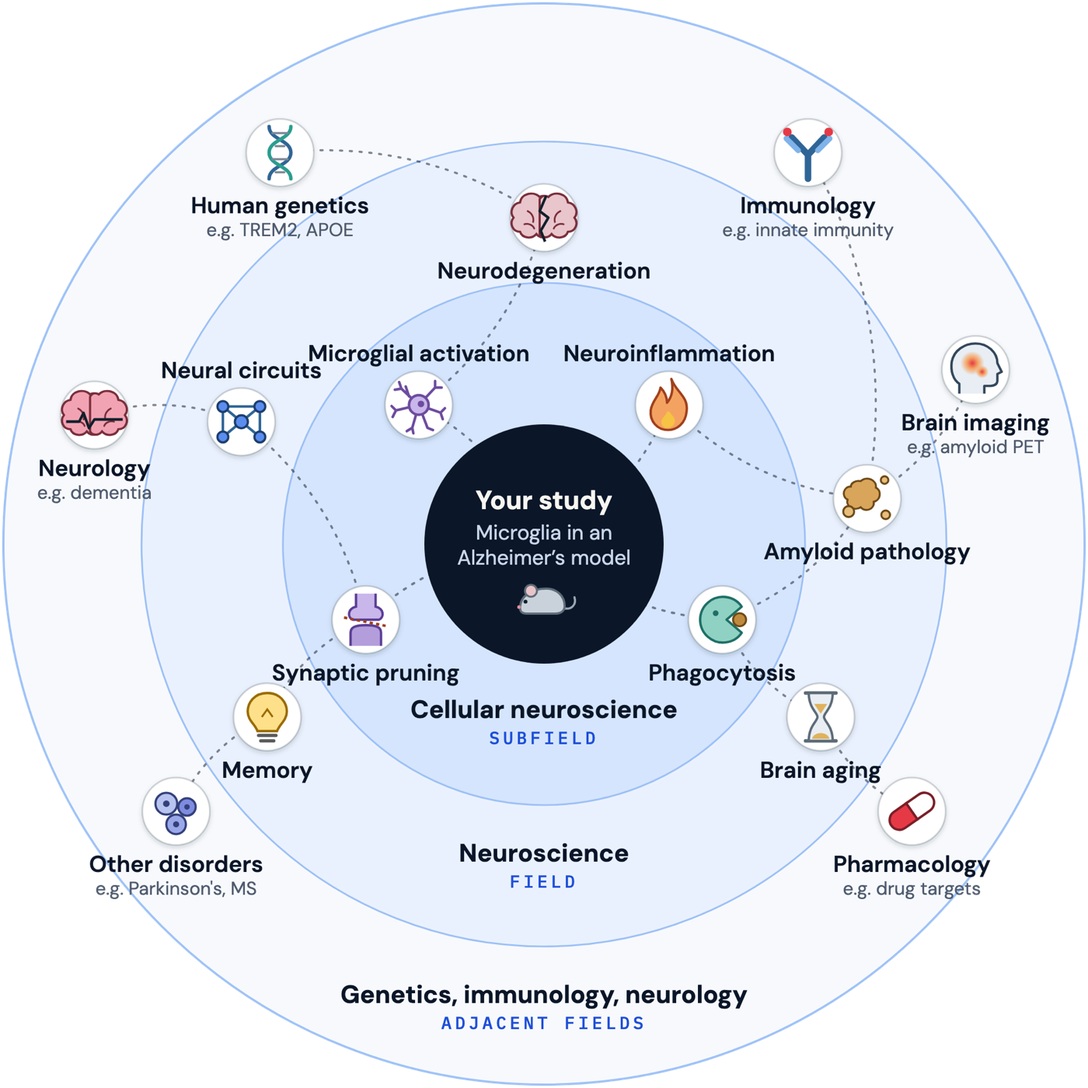
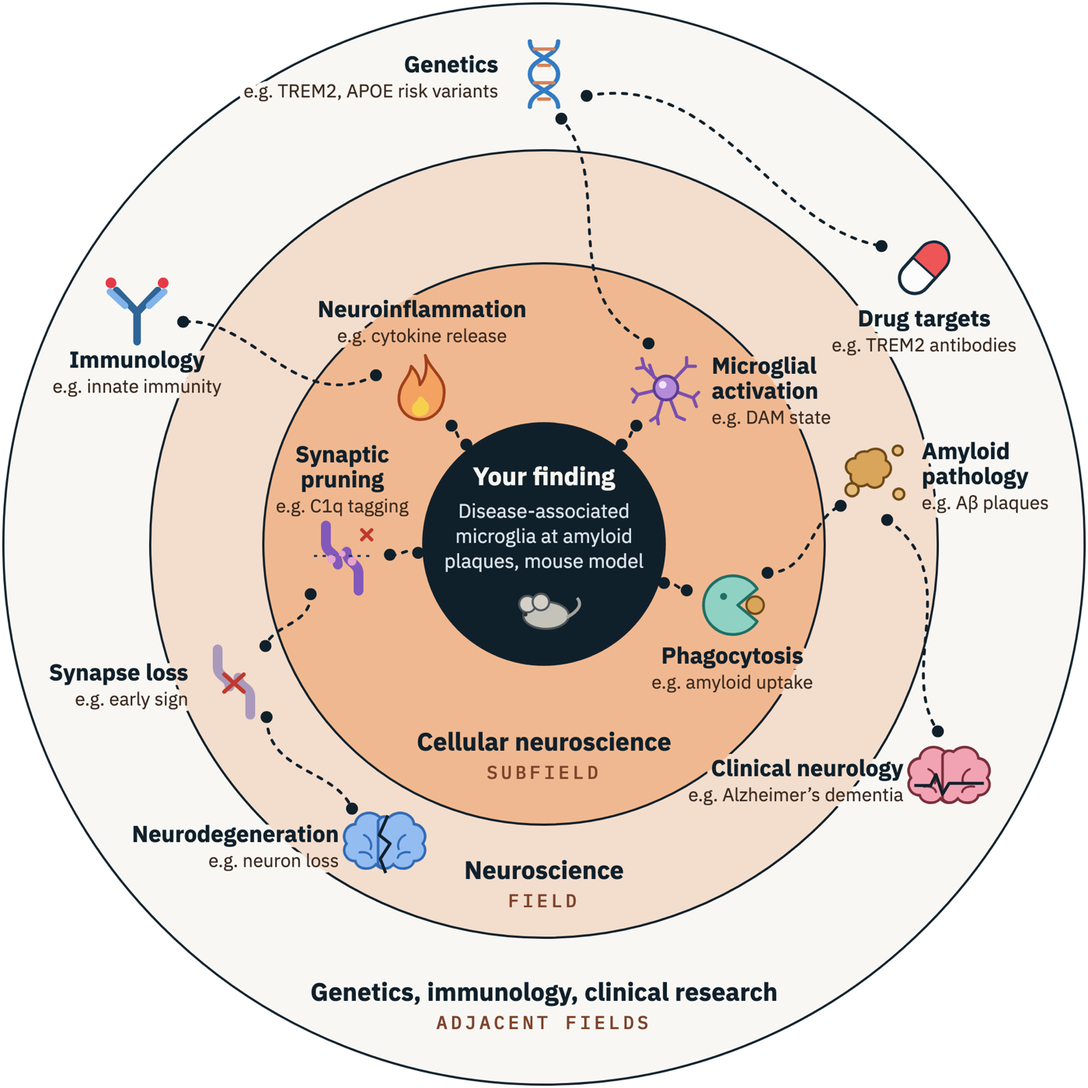
home: 'The missing link' as an orange section — the heading and text on the left, the rings figure on the right (disease-associated microglia in Alzheimer's, connected through cellular neuroscience, neuroscience and adjacent fields), no cards; figure source and SVG in docs/figures

diff --git a/docs/figures/reach-rings.html b/docs/figures/reach-rings.html
@@ -1,148 +1,119 @@
 <!doctype html>
 <html><head><meta charset="utf-8">
-<link rel="stylesheet" href="https://fonts.googleapis.com/css2?family=IBM+Plex+Sans:wght@400;600;700&family=IBM+Plex+Mono:wght@500&family=DM+Sans:wght@400;600;700&display=swap">
-<style>
-html,body{margin:0;background:transparent}
-svg{display:block}
+<link rel="stylesheet" href="https://fonts.googleapis.com/css2?family=IBM+Plex+Sans:wght@400;600;700&family=IBM+Plex+Mono:wght@500&display=swap">
+<style>html,body{margin:0;background:transparent}svg{display:block}
+.lbl{font:700 21px 'IBM Plex Sans',sans-serif;fill:#10202B}
+.ex{font:400 17px 'IBM Plex Sans',sans-serif;fill:#3A2A20}
+.ring{font:700 23px 'IBM Plex Sans',sans-serif;fill:#10202B}
+.role{font:500 17px 'IBM Plex Mono',monospace;letter-spacing:3px;fill:#7D432B}
+.core1{font:700 23px 'IBM Plex Sans',sans-serif;fill:#F6F5F0}
+.core2{font:400 18px 'IBM Plex Sans',sans-serif;fill:#D9E2E8}
 </style></head>
 <body>
 <svg id="fig" xmlns="http://www.w3.org/2000/svg" width="1000" height="1000" viewBox="0 0 1000 1000"></svg>
 <script>
-// Palette: #slide (warm, the deck) or #web (BrainKB site blues).
-const WEB = location.hash === "#web";
-const T = WEB ? {
-  font: "'DM Sans'", mono: "'IBM Plex Mono'", ink: "#0b1628", muted: "#4f5b6e", outer: "#f7f9fd", mid: "#eaf1fe", inner: "#d5e5fd",
-  stroke: "#9cc0f5", core: "#0b1628", coreSub: "#c9d6ea", role: "#1d4ed8",
-} : {
-  font: "'IBM Plex Sans'", mono: "'IBM Plex Mono'", ink: "#10202B", muted: "#4A5563", outer: "#F6F5F0", mid: "#F3DCC9", inner: "#EDB38D",
-  stroke: "#10202B", core: "#10202B", coreSub: "#D9E2E8", role: "#8A3F17",
-};
-document.head.insertAdjacentHTML("beforeend", `<style>
-.lbl{font:600 21px ${T.font},sans-serif;fill:${T.ink}}
-.ex{font:400 17px ${T.font},sans-serif;fill:${T.muted}}
-.ring{font:700 23px ${T.font},sans-serif;fill:${T.ink}}
-.role{font:500 16px ${T.mono},monospace;letter-spacing:3px;fill:${T.role}}
-.core1{font:700 24px ${T.font},sans-serif;fill:#F6F5F0}
-.core2{font:400 19px ${T.font},sans-serif;fill:${T.coreSub}}
-</style>`);
+// BrainKB "The missing link" figure: one finding (disease-associated microglia at
+// amyloid plaques, Keren-Shaul et al., Cell 2017) and the knowledge it connects to.
+// Rings show reach, not a hierarchy. Links are illustrative, each one a relationship
+// reported in published work. Rendered to PNG for the deck and the BrainKB home page.
+const C = 500, NS = "http://www.w3.org/2000/svg", svg = document.getElementById("fig");
+const el = (tag, a, p = svg) => { const e = document.createElementNS(NS, tag); for (const k in a) e.setAttribute(k, a[k]); p.appendChild(e); return e; };
+const g = (a, p = svg) => el("g", a, p);
 
-const C = 500, NS = "http://www.w3.org/2000/svg";
-const svg = document.getElementById("fig");
-const el = (tag, attrs, parent = svg) => { const e = document.createElementNS(NS, tag); for (const k in attrs) e.setAttribute(k, attrs[k]); parent.appendChild(e); return e; };
-const g = (attrs, parent = svg) => el("g", attrs, parent);
+el("circle", { cx: C, cy: C, r: 497, fill: "#F8F7F3" });
+el("circle", { cx: C, cy: C, r: 362, fill: "#F3DDCD" });
+el("circle", { cx: C, cy: C, r: 258, fill: "#F0B890" });
+// ring outlines are masked: each label cuts a gap in the line behind it
+const mask = el("mask", { id: "cut", maskUnits: "userSpaceOnUse", x: 0, y: 0, width: 1000, height: 1000 }, el("defs", {}));
+el("rect", { x: 0, y: 0, width: 1000, height: 1000, fill: "#fff" }, mask);
+const outlines = g({ fill: "none", stroke: "#10202B", "stroke-width": 2, mask: "url(#cut)" });
+for (const r of [497, 362, 258]) el("circle", { cx: C, cy: C, r }, outlines);
 
-const defs = el("defs", {});
-defs.innerHTML = `
-<radialGradient id="pet" cx="50%" cy="50%" r="50%"><stop offset="0" stop-color="#E63946"/><stop offset=".45" stop-color="#F4A261"/><stop offset="1" stop-color="#F4A261" stop-opacity="0"/></radialGradient>
-<filter id="sh" x="-30%" y="-30%" width="160%" height="160%"><feDropShadow dx="0" dy="2" stdDeviation="2.5" flood-color="#10202B" flood-opacity=".18"/></filter>`;
-
-// rings
-el("circle", { cx: C, cy: C, r: 497, fill: T.outer, stroke: T.stroke, "stroke-width": WEB ? 2 : 2.5 });
-el("circle", { cx: C, cy: C, r: 370, fill: T.mid, stroke: T.stroke, "stroke-width": 1.6 });
-el("circle", { cx: C, cy: C, r: 240, fill: T.inner, stroke: T.stroke, "stroke-width": 1.6 });
-
-// icons, each drawn in a ~48px box around 0,0
-const BRAIN = (fill = "#F2A3B3") => `
-  <path d="M-4 -19c-6-6-17-3-18 5-7 1-10 9-6 14-4 5-1 13 6 13 2 6 11 7 15 2 3 4 9 4 11 0V-17c-2-3-5-4-8-2z" fill="${fill}" stroke="#7A2E3B" stroke-width="2"/>
-  <path d="M4 -19c6-6 17-3 18 5 7 1 10 9 6 14 4 5 1 13-6 13-2 6-11 7-15 2-3 4-9 4-11 0V-17c2-3 5-4 8-2z" fill="${fill}" stroke="#7A2E3B" stroke-width="2"/>
-  <path d="M-15 -6c4 2 6 6 5 10M-18 6c4-1 8 1 9 4M15 -6c-4 2-6 6-5 10M18 6c-4-1-8 1-9 4" fill="none" stroke="#7A2E3B" stroke-width="1.6" stroke-linecap="round"/>`;
+// icons, ~60px, drawn around 0,0
+const BRAIN = (f, s) => `<path d="M-4 -24c-8-8-22-4-23 6-9 1-13 11-8 18-5 6-1 16 8 16 2 8 14 9 19 3 4 5 11 5 14 0V-21c-3-4-6-5-10-3z" fill="${f}" stroke="${s}" stroke-width="2.4"/><path d="M4 -24c8-8 22-4 23 6 9 1 13 11 8 18 5 6 1 16-8 16-2 8-14 9-19 3-4 5-11 5-14 0V-21c3-4 6-5 10-3z" fill="${f}" stroke="${s}" stroke-width="2.4"/><path d="M-19 -8c5 2 8 8 6 13M-23 8c5-1 10 1 11 5M19 -8c-5 2-8 8-6 13M23 8c-5-1-10 1-11 5" fill="none" stroke="${s}" stroke-width="2" stroke-linecap="round"/>`;
 const ICON = {
-  glia: `<g stroke="#6D4C9F" stroke-width="2.4" stroke-linecap="round" fill="none">
-      <path d="M0 0L-16 -15l-6 1M-16 -15l-2 -6M-9 -8l-3 -9M0 0L15 -16l6 0M15 -16l0 -6M0 0L-21 5l-4 -4M-21 5l-3 6M0 0L20 7l4 -4M20 7l2 6M0 0L-6 21l-5 3M-6 21l1 5M0 0L8 21l5 2"/></g>
-    <circle r="9" fill="#C9B6EA" stroke="#6D4C9F" stroke-width="2.4"/><circle cx="2" cy="-1" r="3" fill="#6D4C9F"/>`,
-  flame: `<path d="M2 -24C6 -12 18 -8 16 6C15 17 7 23 -1 23C-11 23 -18 15 -17 5C-16 -4 -9 -8 -8 -16C-3 -11 -2 -6 -2 -2C3 -8 4 -15 2 -24Z" fill="#F4A261" stroke="#A0401C" stroke-width="2.2" stroke-linejoin="round"/>
-    <path d="M0 6C3 10 6 12 5 16C4 20 0 21 -2 21C-6 21 -8 17 -7 14C-6 11 -3 10 -2 6Z" fill="#F6C344"/>`,
-  synapse: `<path d="M-9 -24V-12C-17 -10 -17 -2 -12 0H12C17 -2 17 -10 9 -12V-24" fill="#C9B6EA" stroke="#5B3E96" stroke-width="2.2"/>
-    <path d="M-14 24V12C-14 7 -10 5 0 5S14 7 14 12V24" fill="#B39DDB" stroke="#5B3E96" stroke-width="2.2"/>
-    <path d="M-20 -2L20 6" stroke="#A0401C" stroke-width="2.4" stroke-dasharray="3 3"/>`,
-  engulf: `<path d="M18 -12A21 21 0 1 0 18 12L4 0Z" fill="#8FD1C3" stroke="#1F6F66" stroke-width="2.2" stroke-linejoin="round"/>
-    <circle cx="-6" cy="-6" r="2.6" fill="#1F6F66"/><circle cx="16" cy="0" r="6" fill="#C08A3E" stroke="#6E4A17" stroke-width="1.8"/>`,
-  network: `<g stroke="#2F6596" stroke-width="2.4"><path d="M0 0L-17 -14M0 0L17 -14M0 0L-17 14M0 0L17 14M-17 -14L17 -14M-17 14L-17 -14M17 14L17 -14"/></g>
-    <g fill="#5B8DEF" stroke="#1D3E6E" stroke-width="2"><circle r="6"/><circle cx="-17" cy="-14" r="5"/><circle cx="17" cy="-14" r="5"/><circle cx="-17" cy="14" r="5"/><circle cx="17" cy="14" r="5"/></g>`,
-  degen: `${BRAIN("#E9C5CC")}<path d="M2 -20L-4 -6L4 0L-3 12L1 22" fill="none" stroke="#10202B" stroke-width="2.4" stroke-linejoin="round"/>`,
-  plaque: `<g stroke="#6E4A17" stroke-width="1.8"><path d="M-6 -16c6-5 15-1 14 6 6 3 4 12-2 13 1 7-8 10-12 5-6 4-14-1-12-7-6-3-4-12 3-12 0-3 4-6 9-5z" fill="#D9A55A"/>
-    <circle cx="-17" cy="12" r="5" fill="#E6BD7C"/><circle cx="17" cy="15" r="4" fill="#E6BD7C"/><circle cx="16" cy="-17" r="3.5" fill="#E6BD7C"/></g>`,
-  hourglass: `<path d="M-14 -22H14M-14 22H14" stroke="#5E6B78" stroke-width="3.2" stroke-linecap="round"/>
-    <path d="M-11 -22C-11 -8 -3 -4 -3 0S-11 8 -11 22H11C11 8 3 4 3 0S11 -8 11 -22Z" fill="#E8EEF3" stroke="#5E6B78" stroke-width="2.2"/>
-    <path d="M-6 -12H6L0 -3Z" fill="#E0B25C"/><path d="M-8 20C-6 13 6 13 8 20Z" fill="#E0B25C"/>`,
-  bulb: `<path d="M0 -22C-12 -22 -18 -13 -18 -5C-18 3 -11 7 -9 13H9C11 7 18 3 18 -5C18 -13 12 -22 0 -22Z" fill="#FFE08A" stroke="#9A6B00" stroke-width="2.2"/>
-    <path d="M-8 17H8M-6 22H6" stroke="#5C5C5C" stroke-width="3" stroke-linecap="round"/><path d="M-5 0L0 -7L5 0" fill="none" stroke="#9A6B00" stroke-width="1.8"/>`,
-  dna: `<path d="M-10 -24C-10 -12 10 -12 10 0S-10 12 -10 24" fill="none" stroke="#2F6596" stroke-width="3.2" stroke-linecap="round"/>
-    <path d="M10 -24C10 -12 -10 -12 -10 0S10 12 10 24" fill="none" stroke="#2A9D8F" stroke-width="3.2" stroke-linecap="round"/>
-    <path d="M-7 -18H7M-4 -6H4M-7 6H7M-4 18H4" stroke="#7A8794" stroke-width="2" stroke-linecap="round"/>`,
-  antibody: `<g stroke-linecap="round" stroke-linejoin="round"><path d="M0 24V2L-15 -14M0 2L15 -14" fill="none" stroke="#2F6596" stroke-width="6"/>
-    <path d="M-9 -2L-20 -13M9 -2L20 -13" fill="none" stroke="#7FB3EA" stroke-width="5"/></g>
-    <circle cx="-19" cy="-19" r="4" fill="#E63946"/><circle cx="19" cy="-19" r="4" fill="#E63946"/>`,
-  scan: `<path d="M-15 22V13C-21 9 -23 1 -22 -7C-20 -18 -10 -24 0 -24C11 -24 20 -16 20 -6L24 2L20 4V10C20 14 16 15 12 15H8V22" fill="#E8EEF3" stroke="#33475B" stroke-width="2.2" stroke-linejoin="round"/>
-    <circle cx="-3" cy="-6" r="11" fill="url(#pet)"/><circle cx="6" cy="2" r="6" fill="url(#pet)"/>`,
-  neuro: `${BRAIN()}<path d="M-26 6H-14L-10 -2L-5 12L0 4H26" fill="none" stroke="#10202B" stroke-width="2.4" stroke-linejoin="round"/>`,
-  pill: `<g transform="rotate(-35)"><path d="M0 -9H-14A9 9 0 0 0 -14 9H0Z" fill="#E63946" stroke="#7A1F27" stroke-width="2.2"/>
-    <path d="M0 -9H14A9 9 0 0 1 14 9H0Z" fill="#FFFFFF" stroke="#7A1F27" stroke-width="2.2"/></g>`,
-  cells: `<g stroke="#33407A" stroke-width="2"><circle cx="-9" cy="-7" r="10" fill="#B8C3F0"/><circle cx="10" cy="-4" r="8" fill="#7E8CE0"/><circle cx="0" cy="12" r="9" fill="#9AA8EA"/></g>
-    <g fill="#33407A"><circle cx="-9" cy="-7" r="3"/><circle cx="10" cy="-4" r="2.5"/><circle cx="0" cy="12" r="2.8"/></g>`,
-  mouse: `<path d="M18 6C26 8 30 2 28 -4" fill="none" stroke="#9AA6B2" stroke-width="2" stroke-linecap="round"/>
-    <path d="M-22 6C-22 -6 -10 -12 2 -12C12 -12 19 -5 19 4C19 9 15 11 10 11H-16C-20 11 -22 9 -22 6Z" fill="#C9D2DA" stroke="#5E6B78" stroke-width="2"/>
-    <circle cx="-12" cy="-10" r="5.5" fill="#E8C4C9" stroke="#5E6B78" stroke-width="1.8"/>
-    <circle cx="-17" cy="0" r="1.8" fill="#10202B"/><circle cx="-23" cy="5" r="1.6" fill="#E58FA0"/>`,
+  infl: `<path d="M3 -30C8 -15 23 -10 20 8C19 21 9 29 -1 29C-14 29 -23 19 -21 6C-20 -5 -11 -10 -10 -20C-4 -14 -2 -8 -2 -3C4 -10 5 -19 3 -30Z" fill="#F4A261" stroke="#A0401C" stroke-width="2.6" stroke-linejoin="round"/><path d="M0 8C4 13 8 15 6 20C5 25 0 26 -3 26C-8 26 -10 21 -9 17C-8 14 -4 12 -3 8Z" fill="#F6D04D"/>`,
+  act: `<g stroke="#7A4FB0" stroke-width="3" stroke-linecap="round" fill="none"><path d="M0 0L-20 -19l-7 1M-20 -19l-2 -8M-11 -10l-4 -11M0 0L19 -20l8 0M19 -20l0 -8M0 0L-26 6l-5 -5M-26 6l-4 7M0 0L25 9l5 -5M25 9l3 8M0 0L-8 26l-6 4M-8 26l1 7M0 0L10 26l7 3"/></g><circle r="11" fill="#B58BD8" stroke="#5B3E96" stroke-width="2.6"/><circle cx="-3" cy="-3" r="3.5" fill="#F1E2FF"/>`,
+  phago: `<path d="M23 -15A27 27 0 1 0 23 15L5 0Z" fill="#8FD1C3" stroke="#1F6F66" stroke-width="2.6" stroke-linejoin="round"/><circle cx="-8" cy="-8" r="3.2" fill="#1F6F66"/><circle cx="21" cy="0" r="8" fill="#D9A55A" stroke="#6E4A17" stroke-width="2"/>`,
+  prune: `<path d="M-15 -30V-14C-15 -4 -4 -5 -4 6M15 30V14C15 4 4 5 4 -6" stroke="#8258BA" stroke-width="9" fill="none" stroke-linecap="round"/><path d="M-26 -2H26" stroke="#253A62" stroke-width="2" stroke-dasharray="3 5"/><g fill="#E7A3CE"><circle cx="-10" cy="1" r="4"/><circle cx="0" cy="-4" r="3"/><circle cx="9" cy="3" r="4"/></g><path d="M18 -26l9 9M27 -26l-9 9" stroke="#C0392B" stroke-width="3.2" stroke-linecap="round"/>`,
+  plaque: `<g stroke="#6E4A17" stroke-width="2.2"><path d="M-8 -20c8-6 19-1 17 8 8 4 5 15-2 16 1 9-10 12-15 6-8 5-17-1-15-9-8-4-5-15 4-15 0-4 5-7 11-6z" fill="#D9A55A"/><circle cx="-22" cy="15" r="6" fill="#E6BD7C"/><circle cx="21" cy="19" r="5" fill="#E6BD7C"/><circle cx="20" cy="-21" r="4.5" fill="#E6BD7C"/></g>`,
+  synloss: `<path d="M-15 -30V-14C-15 -4 -4 -5 -4 4M15 30V14C15 4 4 5 4 -4" stroke="#9D8DB8" stroke-width="9" fill="none" stroke-linecap="round" opacity=".85"/><path d="M-9 -7L9 9M9 -7L-9 9" stroke="#C0392B" stroke-width="3.6" stroke-linecap="round"/>`,
+  degen: `${BRAIN("#93BCF1", "#316BB6")}<path d="M3 -26L-5 -8L5 0L-4 14L1 27" fill="none" stroke="#10202B" stroke-width="2.8" stroke-linejoin="round"/>`,
+  gen: `<path d="M-13 -30C-13 -15 13 -15 13 0S-13 15 -13 30" fill="none" stroke="#327CC5" stroke-width="4" stroke-linecap="round"/><path d="M13 -30C13 -15 -13 -15 -13 0S13 15 13 30" fill="none" stroke="#327CC5" stroke-width="4" stroke-linecap="round"/><path d="M-9 -23H9M-5 -8H5M-9 8H9M-5 23H5" stroke="#D68359" stroke-width="3" stroke-linecap="round"/>`,
+  imm: `<g stroke-linecap="round"><path d="M0 30V3L-19 -17M0 3L19 -17" fill="none" stroke="#2F6596" stroke-width="7"/><path d="M-11 -3L-25 -16M11 -3L25 -16" fill="none" stroke="#7FB3EA" stroke-width="6"/></g><circle cx="-24" cy="-24" r="5" fill="#E63946"/><circle cx="24" cy="-24" r="5" fill="#E63946"/>`,
+  drug: `<g transform="rotate(42)"><rect x="-14" y="-27" width="28" height="54" rx="14" fill="#FCFCFC" stroke="#142B3C" stroke-width="3"/><path d="M-14 0V-13a14 14 0 0 1 28 0V0Z" fill="#EE5557" stroke="#142B3C" stroke-width="2"/></g>`,
+  clin: `${BRAIN("#F2A3B3", "#7A2E3B")}<path d="M-32 7H-17L-12 -3L-6 15L0 5H32" fill="none" stroke="#10202B" stroke-width="2.8" stroke-linejoin="round"/>`,
+  mouse: `<ellipse cx="2" cy="6" rx="22" ry="13" fill="#C4C2B9" stroke="#4D565A" stroke-width="2"/><circle cx="-16" cy="-5" r="8" fill="#D4D0C8" stroke="#4D565A" stroke-width="2"/><circle cx="-3" cy="-7" r="8" fill="#D4D0C8" stroke="#4D565A" stroke-width="2"/><circle cx="-18" cy="5" r="2" fill="#333"/><path d="M22 8q18-10 10-19" fill="none" stroke="#A4A29C" stroke-width="3"/>`,
 };
 
-// a: degrees (0 = right, -90 = top); r: distance from centre; lab: label above or below the icon
 const pt = (a, r) => [C + r * Math.cos(a * Math.PI / 180), C + r * Math.sin(a * Math.PI / 180)];
+// lab: where the text goes relative to the icon
 const NODES = {
   // subfield: cellular neuroscience
-  act:   { a: -132, r: 172, icon: "glia", t: ["Microglial activation"], lab: "up" },
-  infl:  { a: -48,  r: 172, icon: "flame", t: ["Neuroinflammation"], lab: "up" },
-  prune: { a: 157,  r: 178, icon: "synapse", t: ["Synaptic pruning"], lab: "down" },
-  phago: { a: 23,   r: 178, icon: "engulf", t: ["Phagocytosis"], lab: "down" },
+  infl:    { a: -128, r: 182, t: ["Neuroinflammation"], ex: "cytokine release", lab: "up" },
+  act:     { a: -52,  r: 182, t: ["Microglial", "activation"], ex: "DAM state", lab: "right" },
+  phago:   { a: 18,   r: 182, t: ["Phagocytosis"], ex: "amyloid uptake", lab: "down" },
+  prune:   { a: 176,  r: 186, t: ["Synaptic", "pruning"], ex: "C1q tagging", lab: "up" },
   // field: neuroscience
-  circ:  { a: -158, r: 300, icon: "network", t: ["Neural circuits"], lab: "up" },
-  degen: { a: -90,  r: 300, icon: "degen", t: ["Neurodegeneration"], lab: "down" },
-  amyl:  { a: -8,   r: 300, icon: "plaque", t: ["Amyloid pathology"], lab: "down" },
-  mem:   { a: 148,  r: 300, icon: "bulb", t: ["Memory"], lab: "down" },
-  aging: { a: 32,   r: 300, icon: "hourglass", t: ["Brain aging"], lab: "down" },
+  plaque:  { a: -12,  r: 312, t: ["Amyloid", "pathology"], ex: "Aβ plaques", lab: "right" },
+  degen:   { a: 118,  r: 312, t: ["Neurodegeneration"], ex: "neuron loss", lab: "left" },
+  synloss: { a: 156,  r: 312, t: ["Synapse loss"], ex: "early sign", lab: "left" },
   // adjacent fields
-  gen:   { a: -124, r: 434, icon: "dna", t: ["Human genetics", "TREM2, APOE"], lab: "down" },
-  imm:   { a: -56,  r: 434, icon: "antibody", t: ["Immunology", "innate immunity"], lab: "down" },
-  img:   { a: -22,  r: 428, icon: "scan", t: ["Brain imaging", "amyloid PET"], lab: "down" },
-  neuro: { a: -164, r: 430, icon: "neuro", t: ["Neurology", "dementia"], lab: "down" },
-  pharm: { a: 36,   r: 418, icon: "pill", t: ["Pharmacology", "drug targets"], lab: "down" },
-  other: { a: 144,  r: 418, icon: "cells", t: ["Other disorders", "Parkinson's, MS"], lab: "down" },
+  gen:     { a: -90,  r: 432, t: ["Genetics"], ex: "TREM2, APOE risk variants", lab: "left" },
+  imm:     { a: -150, r: 432, t: ["Immunology"], ex: "innate immunity", lab: "down" },
+  drug:    { a: -36,  r: 432, t: ["Drug targets"], ex: "TREM2 antibodies", lab: "down" },
+  clin:    { a: 30,   r: 430, t: ["Clinical neurology"], ex: "Alzheimer’s dementia", lab: "left" },
 };
-
-// dashed links from the study outwards
-const CHAINS = [["core", "act", "degen", "gen"], ["core", "infl", "amyl", "imm"], ["core", "prune", "circ", "neuro"],
-                ["core", "phago", "amyl", "img"], ["core", "prune", "mem", "other"], ["core", "phago", "aging", "pharm"]];
+// Each link is a relationship reported in published work (illustrative):
+const EDGES = [
+  ["core", "act", .25], ["act", "gen", -.3],      // the DAM program depends on TREM2; DAM upregulate Apoe
+  ["gen", "drug", -.25],                           // TREM2 is targeted by antibodies in trials
+  ["core", "infl", -.25], ["infl", "imm", -.3],     // neuroinflammation is innate immune signaling in the brain
+  ["core", "phago", -.25], ["phago", "plaque", .3], ["plaque", "clin", -.3], // DAM take up Aβ near plaques; plaques are a hallmark of AD
+  ["core", "prune", .25], ["prune", "synloss", -.3], ["synloss", "degen", .3], // complement-tagged synapses are engulfed early; synapse loss precedes neuron loss
+];
 const P = (k) => (k === "core" ? [C, C] : pt(NODES[k].a, NODES[k].r));
-const links = g({ fill: "none", stroke: T.ink, "stroke-width": 2, "stroke-dasharray": "2 7", "stroke-linecap": "round", opacity: .5 });
-for (const ch of CHAINS) for (let i = 0; i < ch.length - 1; i++) {
-  const [x1, y1] = P(ch[i]), [x2, y2] = P(ch[i + 1]);
-  const mx = (x1 + x2) / 2, my = (y1 + y2) / 2, dx = x2 - x1, dy = y2 - y1;
-  el("path", { d: `M${x1} ${y1}Q${mx - dy * .18} ${my + dx * .18} ${x2} ${y2}` }, links);
+const off = (k) => (k === "core" ? 116 : 44);
+const lines = g({ fill: "none", stroke: "#10202B", "stroke-width": 2.6, "stroke-dasharray": "4 7", "stroke-linecap": "round" });
+const dots = g({ fill: "#10202B" });
+for (const [a, b, bend] of EDGES) {
+  let [x1, y1] = P(a), [x2, y2] = P(b);
+  const L = Math.hypot(x2 - x1, y2 - y1), ux = (x2 - x1) / L, uy = (y2 - y1) / L;
+  x1 += ux * off(a); y1 += uy * off(a); x2 -= ux * off(b); y2 -= uy * off(b);
+  const dx = x2 - x1, dy = y2 - y1, mx = (x1 + x2) / 2, my = (y1 + y2) / 2;
+  // a gentle S-curve: two control points bowing to opposite sides
+  el("path", { d: `M${x1} ${y1}C${x1 + dx * .33 - dy * bend} ${y1 + dy * .33 + dx * bend} ${x1 + dx * .67 + dy * bend * .4} ${y1 + dy * .67 - dx * bend * .4} ${x2} ${y2}` }, lines);
+  el("circle", { cx: x1, cy: y1, r: 5.5 }, dots);
+  el("circle", { cx: x2, cy: y2, r: 5.5 }, dots);
 }
 
 const ringLabel = (y, name, role) => {
   el("text", { x: C, y, "text-anchor": "middle", class: "ring" }).textContent = name;
-  el("text", { x: C, y: y + 24, "text-anchor": "middle", class: "role" }).textContent = role;
+  el("text", { x: C, y: y + 26, "text-anchor": "middle", class: "role" }).textContent = role;
 };
-ringLabel(660, "Cellular neuroscience", "SUBFIELD");
-ringLabel(792, "Neuroscience", "FIELD");
-ringLabel(922, "Genetics, immunology, neurology", "ADJACENT FIELDS");
+ringLabel(690, "Cellular neuroscience", "SUBFIELD");
+ringLabel(808, "Neuroscience", "FIELD");
+ringLabel(920, "Genetics, immunology, clinical research", "ADJACENT FIELDS");
 
-el("circle", { cx: C, cy: C, r: 110, fill: T.core });
-el("text", { x: C, y: 468, "text-anchor": "middle", class: "core1" }).textContent = "Your study";
-el("text", { x: C, y: 496, "text-anchor": "middle", class: "core2" }).textContent = "Microglia in an";
-el("text", { x: C, y: 519, "text-anchor": "middle", class: "core2" }).textContent = "Alzheimer’s model";
-g({ transform: `translate(${C} 553)` }).innerHTML = ICON.mouse;
+el("circle", { cx: C, cy: C, r: 112, fill: "#10202B" });
+[["Your finding", "core1", 446], ["Disease-associated", "core2", 476], ["microglia at amyloid", "core2", 499], ["plaques, mouse model", "core2", 522]]
+  .forEach(([t, c, y]) => { el("text", { x: C, y, "text-anchor": "middle", class: c }).textContent = t; });
+g({ transform: `translate(${C} 560) scale(.95)` }).innerHTML = ICON.mouse;
 
 for (const k in NODES) {
   const n = NODES[k], [x, y] = pt(n.a, n.r);
   const ng = g({ transform: `translate(${x.toFixed(1)} ${y.toFixed(1)})` });
-  el("circle", { r: 31, fill: "#FFFFFF", stroke: "#10202B", "stroke-opacity": .18, "stroke-width": 1.5, filter: "url(#sh)" }, ng);
-  g({}, ng).innerHTML = ICON[n.icon];
-  const y0 = n.lab === "up" ? -40 - (n.t.length - 1) * 20 : 56;
-  n.t.forEach((t, i) => {
-    el("text", { x: 0, y: y0 + i * 21, "text-anchor": "middle", class: i === 0 ? "lbl" : "ex" }, ng).textContent = i === 0 ? t : `e.g. ${t}`;
-  });
+  g({}, ng).innerHTML = ICON[k];
+  const lines_ = [...n.t.map((t) => ["lbl", t]), ["ex", `e.g. ${n.ex}`]];
+  const h = n.t.length * 23 + 20;
+  const pos = { up: [0, -40 - h + 18, "middle"], down: [0, 54, "middle"], left: [-42, 6 - h / 2 + 14, "end"], right: [42, 6 - h / 2 + 14, "start"] }[n.lab];
+  let yy = pos[1];
+  for (const [cls, t] of lines_) {
+    el("text", { x: pos[0], y: yy, "text-anchor": pos[2], class: cls }, ng).textContent = t;
+    const m = el("text", { x: pos[0], y: yy, "text-anchor": pos[2], class: cls, fill: "#000", stroke: "#000", "stroke-width": 10, "stroke-linejoin": "round", transform: ng.getAttribute("transform") }, mask);
+    m.textContent = t; m.style.fill = "#000";
+    yy += cls === "lbl" ? 23 : 20;
+  }
 }
 </script>
 </body></html>

diff --git a/src/app/components/marketing/landing/ReachRings.tsx b/src/app/components/marketing/landing/ReachRings.tsx
@@ -1,64 +1,35 @@
 /**
- * From narrow to broad: one observation in the middle, and the subfield, field
- * and adjacent fields it can reach once its entities carry shared ontology terms.
- * The figure (public/reach-rings.png) is drawn from the same four steps as the
- * cards, which read from the specific study outwards.
+ * The missing link: one finding (disease-associated microglia at amyloid plaques,
+ * Keren-Shaul et al., Cell 2017) and the wider knowledge it connects to. The figure
+ * (public/reach-rings.png, drawn from docs/figures/reach-rings.html) tells the story;
+ * the rings show reach, not a hierarchy, and each dotted link is a relationship
+ * reported in published work, shown as an illustration.
  */
-
-const STEPS = [
-  {
-    role: "Your study", name: "Disease-associated microglia in an Alzheimer's mouse model",
-    examples: ["Cell type", "Brain region", "Species", "Disease"],
-    how: "Its entities are tagged with shared cell-type, region, species and disease terms when it is ingested.",
-  },
-  {
-    role: "Subfield", name: "Cellular neuroscience",
-    examples: ["Microglial activation", "Neuroinflammation", "Synaptic pruning"],
-    how: "Linked to other work on the same cell type and biological processes.",
-  },
-  {
-    role: "Field", name: "Neuroscience",
-    examples: ["Neurodegeneration", "Amyloid pathology", "Brain aging"],
-    how: "Linked through shared disease and pathology concepts.",
-  },
-  {
-    role: "Adjacent fields", name: "Genetics, immunology, neurology",
-    examples: ["TREM2 and APOE", "Innate immunity", "Dementia research"],
-    how: "Linked through gene, immune-process and disease terms.",
-  },
-];
-
 export default function ReachRings() {
   return (
-    <div className="reach">
+    <div className="missing">
+      <div className="missing-copy">
+        <span className="missing-k">The missing link</span>
+        <h2>From your narrow domain to the whole field</h2>
+        <p>
+          A study of disease-associated microglia in Alzheimer&apos;s disease begins with a specific cellular
+          observation. BrainKB connects it to related knowledge about neuroinflammation, neurodegeneration, genetic
+          risk factors and potential therapeutic targets through shared ontology concepts and evidence-linked
+          relationships.
+        </p>
+        <p className="missing-note">
+          The rings show how far a finding can reach, not a strict hierarchy. Links are illustrative, drawn from
+          published work.
+        </p>
+      </div>
       <img
-        className="reach-fig"
+        className="missing-fig"
         src="/reach-rings.png"
         width={700}
         height={700}
-        alt="Concentric rings. At the centre, a study of microglia in an Alzheimer's mouse model. The first ring, cellular neuroscience, holds microglial activation, neuroinflammation, synaptic pruning and phagocytosis. The second, neuroscience, holds neural circuits, neurodegeneration, amyloid pathology, memory and brain aging. The outer ring of adjacent fields holds human genetics, immunology, brain imaging, neurology, pharmacology and other disorders such as Parkinson's and MS."
         loading="lazy"
+        alt="Concentric rings around one finding: disease-associated microglia at amyloid plaques in a mouse model. Cellular neuroscience: neuroinflammation, microglial activation, phagocytosis and synaptic pruning. Neuroscience: amyloid pathology, synapse loss and neurodegeneration. Adjacent fields: genetics (TREM2 and APOE risk variants), immunology, drug targets and clinical neurology (Alzheimer's dementia). Dotted lines link each concept to the next."
       />
-      <div>
-        <ol className="reach-list" aria-label="From a specific study to broader fields">
-          {STEPS.map((s, i) => (
-            <li key={s.role}>
-              <span className="n" aria-hidden="true">{String(i + 1).padStart(2, "0")}</span>
-              <div className="body">
-                <span className="rl">{s.role}</span>
-                <span className="nm">{s.name}</span>
-                <span className="ex">{s.examples.map((e) => <i key={e}>{e}</i>)}</span>
-                <span className="how">{s.how}</span>
-              </div>
-            </li>
-          ))}
-        </ol>
-        <p className="reach-note">
-          The rings show how far a finding can reach, not a strict hierarchy: a study can link straight to genetics or
-          another subfield through a shared concept. They are connections BrainKB makes discoverable, backed by
-          evidence, not causal claims or a promise that every link is already in the graph.
-        </p>
-      </div>
     </div>
   );
 }

diff --git a/src/app/components/marketing/landing/landing.css b/src/app/components/marketing/landing/landing.css
@@ -588,21 +588,12 @@ html:has(.lp){scroll-behavior:smooth}
 @media(max-width:1100px){.lp .book{margin:0 -24px}}
 @media(max-width:900px){.lp .tut-needs-wrap{grid-template-columns:1fr}}
 @media(max-width:760px){.lp .book{display:block;margin:0 -16px}.lp .book-menu{display:block;width:calc(100% - 32px);margin:16px;border:1px solid var(--line);background:#fff;border-radius:8px;padding:10px 14px;text-align:left;font:600 14px var(--font-dm-sans),sans-serif}.lp .book-side{display:none;position:static;height:auto;border-right:0;border-bottom:1px solid var(--line)}.lp .book-side.open{display:block}.lp .book-main{padding:24px 20px 60px}.lp .book-sec h2{font-size:24px}.lp .tut-ask{flex-wrap:wrap}}
-/* From narrow to broad: one observation and the rings around it (ReachRings) */
-.lp .reach{display:grid;grid-template-columns:minmax(0,1.05fr) minmax(0,.95fr);gap:44px;align-items:center}
-.lp .reach-fig{width:100%;max-width:620px;height:auto;justify-self:center}
-.lp .reach-list{list-style:none;margin:0;padding:0;display:grid;gap:0;position:relative}
-.lp .reach-list::before{content:"";position:absolute;left:17px;top:20px;bottom:20px;width:2px;background:linear-gradient(var(--blue),#bfdbfe)}
-.lp .reach-list li{display:grid;grid-template-columns:36px minmax(0,1fr);gap:16px;padding:0 0 14px;position:relative}
-.lp .reach-list li:last-child{padding-bottom:0}
-.lp .reach-list .n{width:36px;height:36px;border-radius:50%;display:grid;place-items:center;background:#fff;border:2px solid var(--blue);font:600 12px var(--font-plex-mono),monospace;color:var(--blue);margin-top:14px;position:relative}
-.lp .reach-list li:first-child .n{background:var(--blue);color:#fff}
-.lp .reach-list .body{display:grid;gap:6px;border:1px solid var(--line);border-radius:12px;background:#fff;padding:14px 18px;transition:border-color .2s,box-shadow .2s}
-.lp .reach-list .body:hover{border-color:#bfdbfe;box-shadow:0 12px 28px #1d4ed812}
-.lp .reach-list .rl{font:11px var(--font-plex-mono),monospace;letter-spacing:1.3px;text-transform:uppercase;color:var(--blue)}
-.lp .reach-list .nm{font-size:16px;font-weight:600;line-height:1.35}
-.lp .reach-list .ex{display:flex;flex-wrap:wrap;gap:6px}
-.lp .reach-list .ex i{font-style:normal;font-size:12.5px;color:#3d4c69;background:var(--pale);border:1px solid var(--line);border-radius:999px;padding:2px 9px}
-.lp .reach-list .how{font-size:13px;line-height:1.55;color:var(--muted)}
-.lp .reach-note{margin:16px 0 0 52px;font-size:12.5px;line-height:1.6;color:var(--muted)}
-@media(max-width:900px){.lp .reach{grid-template-columns:minmax(0,1fr);gap:28px}.lp .reach-fig{max-width:460px}}
+/* The missing link: one finding and the wider knowledge it reaches (ReachRings) */
+.lp .missing{display:grid;grid-template-columns:minmax(0,.72fr) minmax(0,1.28fr);gap:32px;align-items:center;background:#e27a3f;color:#102330;border-radius:22px;padding:56px 48px}
+.lp .missing-k{font:13px var(--font-plex-mono),monospace;letter-spacing:4px;text-transform:uppercase}
+.lp .missing h2{margin:18px 0 22px;font-size:42px;line-height:1.1;letter-spacing:-1.2px;color:#102330}
+.lp .missing p{margin:0;font-size:17px;line-height:1.65;max-width:520px}
+.lp .missing .missing-note{margin-top:18px;font-size:13.5px;color:#3a1d0c}
+.lp .missing-fig{width:100%;max-width:780px;height:auto;justify-self:center}
+@media(max-width:900px){.lp .missing{grid-template-columns:minmax(0,1fr);padding:40px 28px}.lp .missing-fig{max-width:520px}}
+@media(max-width:680px){.lp .missing{padding:32px 18px;border-radius:14px}.lp .missing h2{font-size:31px}}

diff --git a/src/app/page.tsx b/src/app/page.tsx
@@ -133,11 +133,6 @@ export default function HomePage() {
         </section>
 
         <section className="section flush" id="reach">
-          <SectionTitle eyebrow="From narrow to broad" color="#0e7490" title={["One observation.", "Connections across neuroscience."]}>
-            An observation about microglia in Alzheimer&apos;s disease can connect to research on neuroinflammation,
-            genetics, aging and other neurological conditions. BrainKB makes these relationships discoverable through
-            shared entities, ontologies and evidence-linked knowledge.
-          </SectionTitle>
           <ReachRings />
         </section>
 
